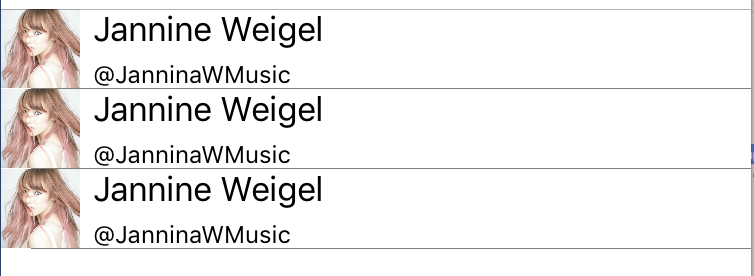
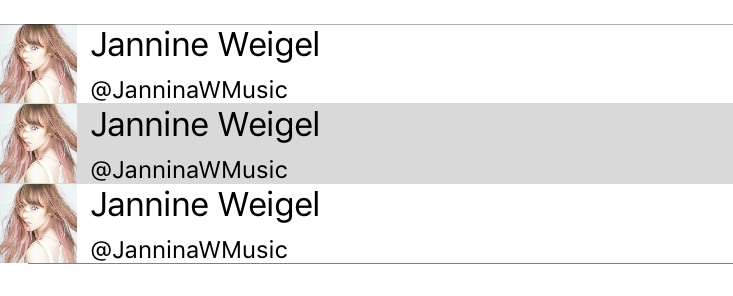
Updated screen

diff --git a/Intro/CustomCellXaml.xaml b/Intro/CustomCellXaml.xaml
@@ -1,0 +1,25 @@
+<?xml version="1.0" encoding="UTF-8"?>
+<ContentPage xmlns="http://xamarin.com/schemas/2014/forms" 
+		xmlns:x="http://schemas.microsoft.com/winfx/2009/xaml" 
+		x:Class="Intro.CustomCellXaml">
+	<ContentPage.Content>
+		<ListView x:Name="listView">
+			<ListView.ItemTemplate>
+				<DateTemplate>
+					<ViewCell>
+						<ViewCell.View>
+							<StackLayout Orientation="Horizontal">
+								<Image Source="{Biding ImageUri}" WidthRequest="40" HeightRequest="40"/>
+								<StackLayout Orientation="Vertical" HorizontalOptions="FillAndExpand">
+									<Label Text="{Biding DisplayName}" HorizontalOptions="FillAndExpand"/>
+									<Label Text="{Biding Twitter}" Font="{x:Static constants:Fonts.Twitter}"/>
+								</StackLayout>
+								</StackLayout>
+							</StackLayout>
+						</ViewCell.View>
+					</ViewCell>
+				</DateTemplate>
+			</ListView.ItemTemplate>
+		</ListView>
+	</ContentPage.Content>
+</ContentPage>

diff --git a/Intro/CustomCellXaml.xaml.cs b/Intro/CustomCellXaml.xaml.cs
@@ -1,0 +1,16 @@
+using System;
+using System.Collections.Generic;
+
+using Xamarin.Forms;
+
+namespace Intro
+{
+	public partial class CustomCellXaml : ContentPage
+	{
+		public CustomCellXaml ()
+		{
+			InitializeComponent ();
+		}
+	}
+}
+
